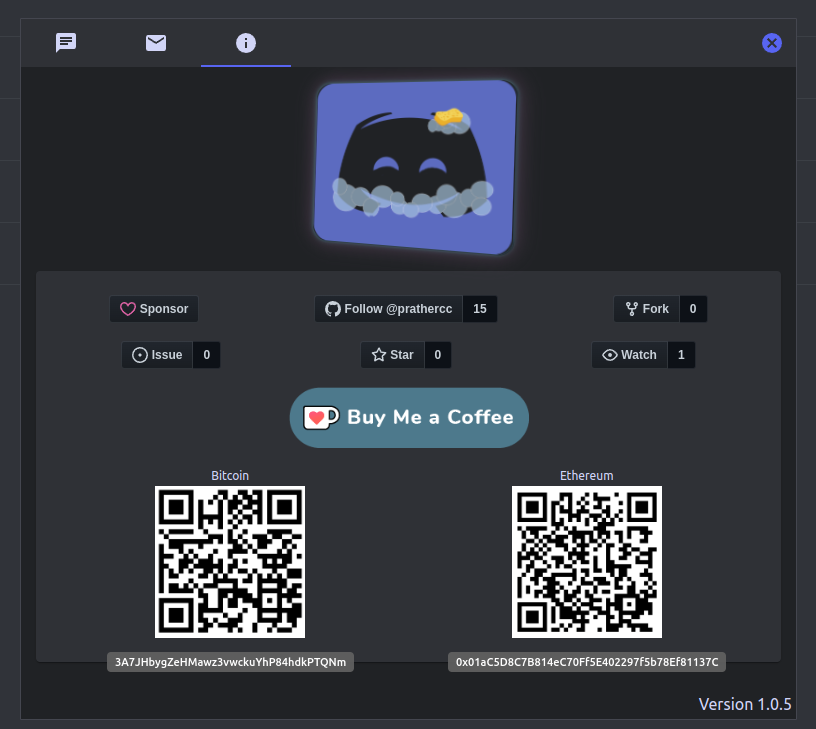
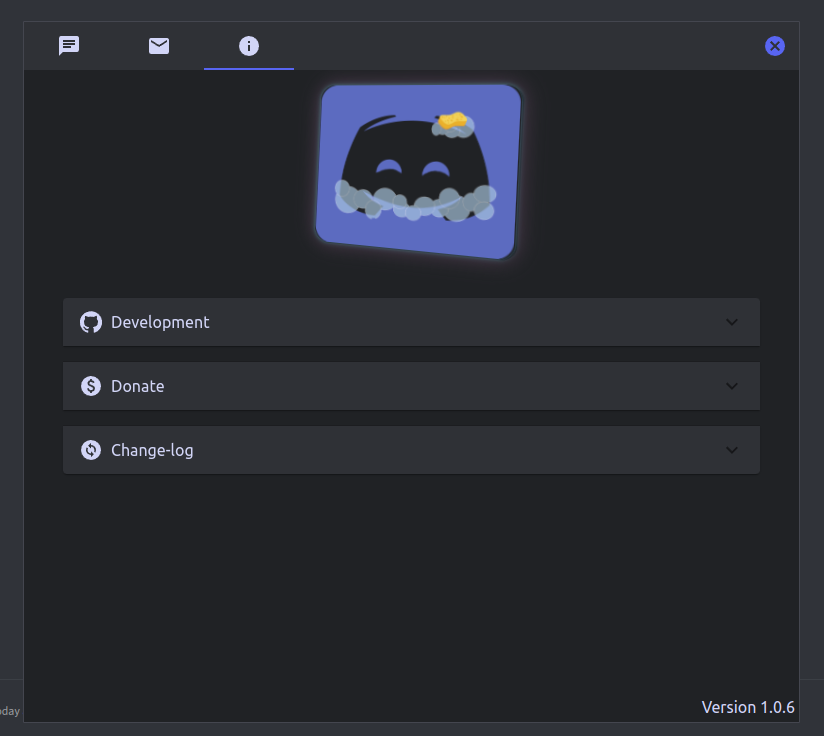
Rename 'About' tab to 'General Information' and refactor. Update screenshots. Add change log.

diff --git a/src/components/About/About.jsx b/src/components/About/About.jsx
@@ -1,8 +1,20 @@
 import React from "react";
 import styled, { keyframes } from "styled-components";
 import GitHubButton from "react-github-btn";
-import { Tooltip, Paper, Typography, Stack } from "@mui/material";
+import {
+  Tooltip,
+  Typography,
+  Stack,
+  Accordion,
+  AccordionSummary,
+  AccordionDetails,
+} from "@mui/material";
 import AboutStyles from "./About.styles";
+import ExpandMoreIcon from "@mui/icons-material/ExpandMore";
+import ChangeCircleIcon from "@mui/icons-material/ChangeCircle";
+import PaidIcon from "@mui/icons-material/Paid";
+import GitHubIcon from "@mui/icons-material/GitHub";
+import changelog from "./changelog.json";
 
 function About() {
   const classes = AboutStyles();
@@ -12,127 +24,200 @@ function About() {
       <Stack>
         <CusImg src="discrub2.png" />
       </Stack>
-      <Paper>
+      <Stack className={classes.paper}>
         <Stack padding={3} spacing={2}>
-          <Stack
-            spacing={2}
-            alignItems="center"
-            justifyContent="space-around"
-            direction="row"
-          >
-            <GitHubButton
-              href="https://github.com/sponsors/prathercc"
-              data-color-scheme="no-preference: light; light: dark; dark: dark;"
-              data-icon="octicon-heart"
-              data-size="large"
-              aria-label="Sponsor @prathercc on GitHub"
-            >
-              Sponsor
-            </GitHubButton>
-            <GitHubButton
-              href="https://github.com/prathercc"
-              data-color-scheme="no-preference: light; light: dark; dark: dark;"
-              data-size="large"
-              data-show-count="true"
-              aria-label="Follow @prathercc on GitHub"
-            >
-              Follow @prathercc
-            </GitHubButton>
-            <GitHubButton
-              href="https://github.com/prathercc/discrub-ext/fork"
-              data-color-scheme="no-preference: light; light: dark; dark: dark;"
-              data-icon="octicon-repo-forked"
-              data-size="large"
-              data-show-count="true"
-              aria-label="Fork prathercc/discrub-ext on GitHub"
-            >
-              Fork
-            </GitHubButton>
-          </Stack>
-          <Stack
-            spacing={2}
-            alignItems="center"
-            justifyContent="space-around"
-            direction="row"
-          >
-            <GitHubButton
-              href="https://github.com/prathercc/discrub-ext/issues"
-              data-color-scheme="no-preference: light; light: dark; dark: dark;"
-              data-icon="octicon-issue-opened"
-              data-size="large"
-              data-show-count="true"
-              aria-label="Issue prathercc/discrub-ext on GitHub"
-            >
-              Issue
-            </GitHubButton>
-            <GitHubButton
-              href="https://github.com/prathercc/discrub-ext"
-              data-color-scheme="no-preference: light; light: dark; dark: dark;"
-              data-icon="octicon-star"
-              data-size="large"
-              data-show-count="true"
-              aria-label="Star prathercc/discrub-ext on GitHub"
-            >
-              Star
-            </GitHubButton>
-            <GitHubButton
-              href="https://github.com/prathercc/discrub-ext/subscription"
-              data-color-scheme="no-preference: light; light: dark; dark: dark;"
-              data-icon="octicon-eye"
-              data-size="large"
-              data-show-count="true"
-              aria-label="Watch prathercc/discrub-ext on GitHub"
-            >
-              Watch
-            </GitHubButton>
-          </Stack>
-
-          <Stack alignItems="center" justifyContent="center">
-            <a href="https://ko-fi.com/W7W4AAIBR">
-              <img
-                style={{ border: "0px", width: 240 }}
-                src="https://cdn.ko-fi.com/cdn/kofi2.png?v=3"
-                border="0"
-                alt="Buy Me a Coffee at ko-fi.com"
-              />
-            </a>
-          </Stack>
-
-          <Stack
-            spacing={2}
-            alignItems="center"
-            justifyContent="space-around"
-            direction="row"
-          >
-            <Stack alignItems="center">
-              <Typography variant="caption">Bitcoin</Typography>
-              <Tooltip
-                leaveDelay={3000}
-                title="3A7JHbygZeHMawz3vwckuYhP84hdkPTQNm"
+          <Accordion>
+            <AccordionSummary expandIcon={<ExpandMoreIcon />}>
+              <Stack
+                direction="row"
+                justifyContent="flex-start"
+                alignItems="center"
+                spacing={1}
               >
-                <img
-                  alt="Donate BTC"
-                  style={{ width: "150px" }}
-                  src="bitcoin.png"
-                />
-              </Tooltip>
-            </Stack>
-            <Stack alignItems="center">
-              <Typography variant="caption">Ethereum</Typography>
-              <Tooltip
-                leaveDelay={3000}
-                title="0x01aC5D8C7B814eC70Ff5E402297f5b78Ef81137C"
+                <GitHubIcon />
+                <Typography className={classes.accordianTitle}>
+                  Development
+                </Typography>
+              </Stack>
+            </AccordionSummary>
+            <AccordionDetails>
+              <Stack spacing={2}>
+                <Stack
+                  spacing={2}
+                  alignItems="center"
+                  justifyContent="space-around"
+                  direction="row"
+                >
+                  <GitHubButton
+                    href="https://github.com/sponsors/prathercc"
+                    data-color-scheme="no-preference: light; light: dark; dark: dark;"
+                    data-icon="octicon-heart"
+                    data-size="large"
+                    aria-label="Sponsor @prathercc on GitHub"
+                  >
+                    Sponsor
+                  </GitHubButton>
+                  <GitHubButton
+                    href="https://github.com/prathercc"
+                    data-color-scheme="no-preference: light; light: dark; dark: dark;"
+                    data-size="large"
+                    data-show-count="true"
+                    aria-label="Follow @prathercc on GitHub"
+                  >
+                    Follow @prathercc
+                  </GitHubButton>
+                  <GitHubButton
+                    href="https://github.com/prathercc/discrub-ext/fork"
+                    data-color-scheme="no-preference: light; light: dark; dark: dark;"
+                    data-icon="octicon-repo-forked"
+                    data-size="large"
+                    data-show-count="true"
+                    aria-label="Fork prathercc/discrub-ext on GitHub"
+                  >
+                    Fork
+                  </GitHubButton>
+                </Stack>
+                <Stack
+                  spacing={2}
+                  alignItems="center"
+                  justifyContent="space-around"
+                  direction="row"
+                >
+                  <GitHubButton
+                    href="https://github.com/prathercc/discrub-ext/issues"
+                    data-color-scheme="no-preference: light; light: dark; dark: dark;"
+                    data-icon="octicon-issue-opened"
+                    data-size="large"
+                    data-show-count="true"
+                    aria-label="Issue prathercc/discrub-ext on GitHub"
+                  >
+                    Issue
+                  </GitHubButton>
+                  <GitHubButton
+                    href="https://github.com/prathercc/discrub-ext"
+                    data-color-scheme="no-preference: light; light: dark; dark: dark;"
+                    data-icon="octicon-star"
+                    data-size="large"
+                    data-show-count="true"
+                    aria-label="Star prathercc/discrub-ext on GitHub"
+                  >
+                    Star
+                  </GitHubButton>
+                  <GitHubButton
+                    href="https://github.com/prathercc/discrub-ext/subscription"
+                    data-color-scheme="no-preference: light; light: dark; dark: dark;"
+                    data-icon="octicon-eye"
+                    data-size="large"
+                    data-show-count="true"
+                    aria-label="Watch prathercc/discrub-ext on GitHub"
+                  >
+                    Watch
+                  </GitHubButton>
+                </Stack>
+              </Stack>
+            </AccordionDetails>
+          </Accordion>
+
+          <Accordion>
+            <AccordionSummary expandIcon={<ExpandMoreIcon />}>
+              <Stack
+                direction="row"
+                justifyContent="flex-start"
+                alignItems="center"
+                spacing={1}
               >
-                <img
-                  alt="Donate ETH"
-                  style={{ width: "150px" }}
-                  src="ethereum.png"
-                />
-              </Tooltip>
-            </Stack>
-          </Stack>
+                <PaidIcon />
+                <Typography className={classes.accordianTitle}>
+                  Donate
+                </Typography>
+              </Stack>
+            </AccordionSummary>
+            <AccordionDetails>
+              <Stack
+                spacing={2}
+                alignItems="center"
+                justifyContent="space-around"
+                direction="row"
+              >
+                <Stack alignItems="center">
+                  <Typography variant="caption">Bitcoin</Typography>
+                  <Tooltip
+                    leaveDelay={3000}
+                    title="3A7JHbygZeHMawz3vwckuYhP84hdkPTQNm"
+                  >
+                    <img
+                      alt="Donate BTC"
+                      className={classes.cryptoImg}
+                      src="bitcoin.png"
+                    />
+                  </Tooltip>
+                </Stack>
+
+                <Stack alignItems="center">
+                  <a href="https://ko-fi.com/W7W4AAIBR">
+                    <img
+                      className={classes.kofiImg}
+                      src="https://cdn.ko-fi.com/cdn/kofi2.png?v=3"
+                      border="0"
+                      alt="Buy Me a Coffee at ko-fi.com"
+                    />
+                  </a>
+                </Stack>
+
+                <Stack alignItems="center">
+                  <Typography variant="caption">Ethereum</Typography>
+                  <Tooltip
+                    leaveDelay={3000}
+                    title="0x01aC5D8C7B814eC70Ff5E402297f5b78Ef81137C"
+                  >
+                    <img
+                      alt="Donate ETH"
+                      className={classes.cryptoImg}
+                      src="ethereum.png"
+                    />
+                  </Tooltip>
+                </Stack>
+              </Stack>
+            </AccordionDetails>
+          </Accordion>
+
+          <Accordion>
+            <AccordionSummary expandIcon={<ExpandMoreIcon />}>
+              <Stack
+                direction="row"
+                justifyContent="flex-start"
+                alignItems="center"
+                spacing={1}
+              >
+                <ChangeCircleIcon />
+                <Typography className={classes.accordianTitle}>
+                  Change-log
+                </Typography>
+              </Stack>
+            </AccordionSummary>
+            <AccordionDetails>
+              <Stack spacing={3}>
+                {changelog.map((change) => {
+                  return (
+                    <Stack>
+                      <Typography variant="h6">
+                        Version {change.version}
+                      </Typography>
+                      {change.changes.map((innerChange) => {
+                        return (
+                          <Typography variant="caption">
+                            {innerChange}
+                          </Typography>
+                        );
+                      })}
+                    </Stack>
+                  );
+                })}
+              </Stack>
+            </AccordionDetails>
+          </Accordion>
         </Stack>
-      </Paper>
+      </Stack>
     </Stack>
   );
 }

diff --git a/src/components/About/About.styles.js b/src/components/About/About.styles.js
@@ -7,6 +7,29 @@ const AboutStyles = makeStyles(() => ({
     maxWidth: "100%",
     overflow: "hidden",
   },
+  paper: {
+    maxHeight: "400px",
+    overflow: "auto",
+    "&::-webkit-scrollbar": {
+      width: "5px",
+    },
+    "&::-webkit-scrollbar-thumb": {
+      background: "#f1f1f1",
+    },
+    "&::-webkit-scrollbar-track": {
+      background: "#888",
+    },
+  },
+  accordianTitle: {
+    cursor: "pointer !important",
+  },
+  cryptoImg: {
+    width: "130px",
+  },
+  kofiImg: {
+    border: "0px",
+    width: 240,
+  },
 }));
 
 export default AboutStyles;

diff --git a/src/components/MenuBar/MenuBar.jsx b/src/components/MenuBar/MenuBar.jsx
@@ -23,7 +23,7 @@ const MenuBar = ({ menuIndex, setMenuIndex }) => {
         <Tooltip title="Direct Messages">
           <Tab icon={<EmailIcon />} />
         </Tooltip>
-        <Tooltip title="About">
+        <Tooltip title="General Information">
           <Tab icon={<InfoIcon />} />
         </Tooltip>
       </Tabs>
